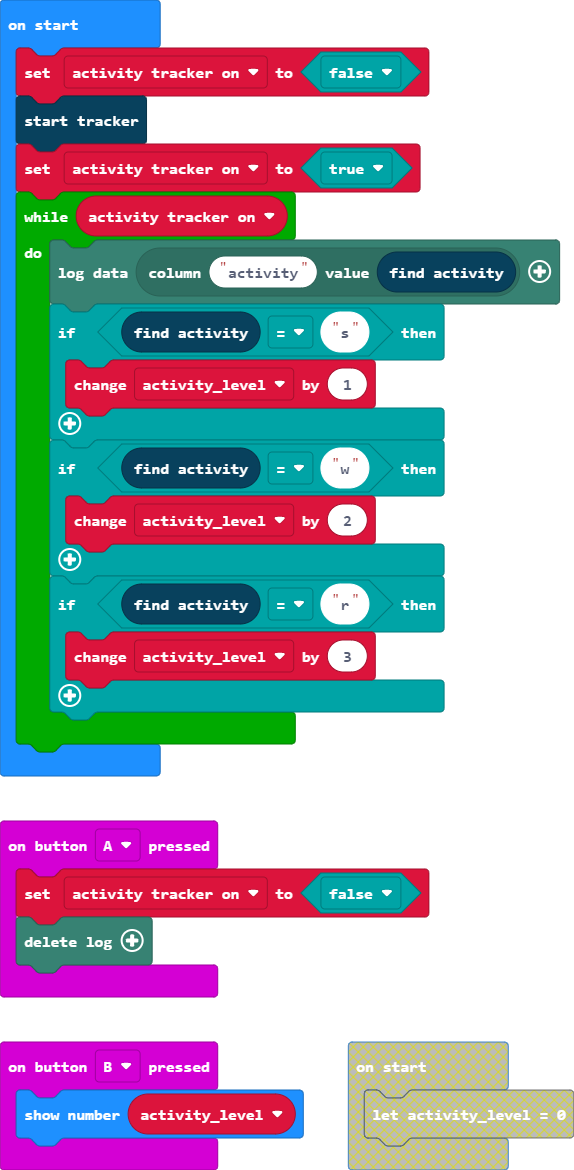
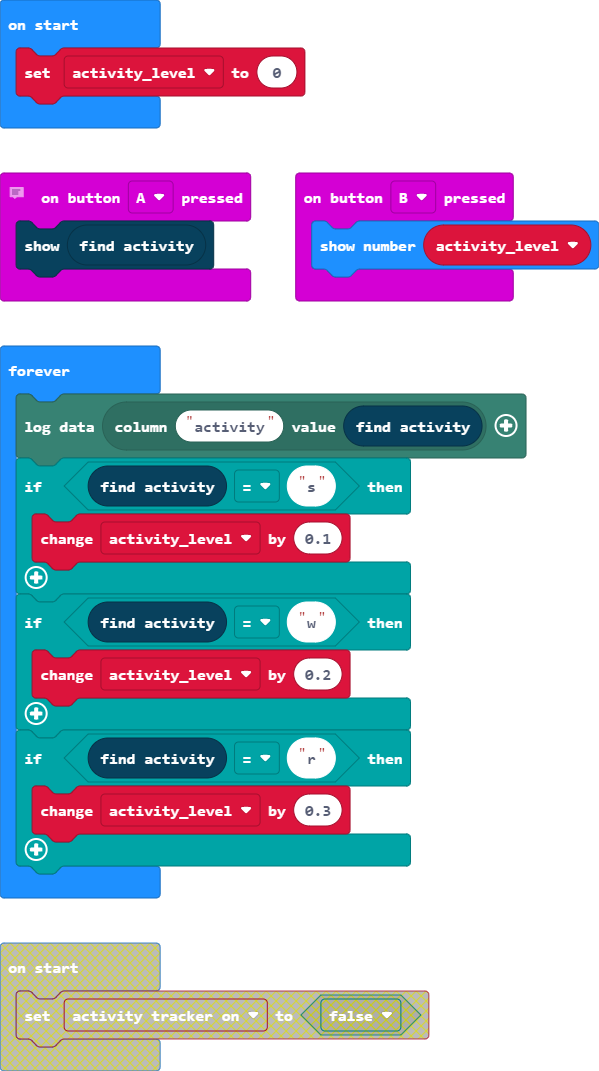
Update pxt.json, main.blocks, main.ts, custom.ts

diff --git a/custom.ts b/custom.ts
@@ -101,38 +101,65 @@ namespace activityRecognition {
         return _py.py_array_index(count, maximum(count))
     }
 
+    control.inBackground(() => {
+        for (let index = 0; index < 19; index++) {
+            rawX.push(input.acceleration(Dimension.X))
+            rawY.push(input.acceleration(Dimension.Y))
+            rawZ.push(input.acceleration(Dimension.Z))
+            basic.pause(97)}
+        while (true) {
+            rawX.push(input.acceleration(Dimension.X))
+            rawY.push(input.acceleration(Dimension.Y))
+            rawZ.push(input.acceleration(Dimension.Z))
+            basic.pause(97)
+            current_activity = activities[predict(feature_package(rawX, rawY, rawZ))]
+            //let current_activity = activities[predict(feature_package(rawX, rawY, rawZ))]
+            // return current_activity
+            //basic.showString(current_activity, 1)
+            // ^ no need to show here
+            rawX.removeAt(0)
+            rawY.removeAt(0)
+            rawZ.removeAt(0)}}
+    )
+
     // collects first 0.1sec * 19 data points from start point
     //% block
-    export function startTracker(){
+    /*export function startTracker(){
         for (let index = 0; index < 19; index++) {
             rawX.push(input.acceleration(Dimension.X))
             rawY.push(input.acceleration(Dimension.Y))
             rawZ.push(input.acceleration(Dimension.Z))
             basic.pause(97)
         }
-    }
+    }*/
 
     //  every 0.1 sec: collect acceleration data, update
     //% block
     export function findActivity(): string {
-        rawX.push(input.acceleration(Dimension.X))
+        /*rawX.push(input.acceleration(Dimension.X))
         rawY.push(input.acceleration(Dimension.Y))
         rawZ.push(input.acceleration(Dimension.Z))
         basic.pause(97)
-        let current_activity = activities[predict(feature_package(rawX, rawY, rawZ))]
+        current_activity = activities[predict(feature_package(rawX, rawY, rawZ))]
+        //let current_activity = activities[predict(feature_package(rawX, rawY, rawZ))]*/
         return current_activity
         //basic.showString(current_activity, 1)
         // ^ no need to show here
-        rawX.removeAt(0)
+        /*rawX.removeAt(0)
         rawY.removeAt(0)
-        rawZ.removeAt(0)
+        rawZ.removeAt(0)*/
         //serial.writeLine(current_activity)
     }
 
     // block that shows string for 1 millisecond: if you use the default show string block it will display for ~1 second and cause a backlog of strings to display
     //% block
-    export function show(s: string){
-        basic.showString(s, 1)
+    export function show(s: string): void{
+        basic.showString(s, 1);
+    }
+
+    //% block
+    export function getActivityDictionary(): Array<string> {
+        return ['s','w','r'];
     }
 } 
 

diff --git a/main.ts b/main.ts
@@ -1,24 +1,22 @@
+// activity_tracker_on = false
+// datalogger.deleteLog()
 input.onButtonPressed(Button.A, function () {
-    activity_tracker_on = false
-    datalogger.deleteLog()
+    activityRecognition.show(activityRecognition.findActivity())
 })
 input.onButtonPressed(Button.B, function () {
     basic.showNumber(activity_level)
 })
 let activity_level = 0
-let activity_tracker_on = false
-activity_tracker_on = false
-activityRecognition.startTracker()
-activity_tracker_on = true
-while (activity_tracker_on) {
+activity_level = 0
+basic.forever(function () {
     datalogger.log(datalogger.createCV("activity", activityRecognition.findActivity()))
     if (activityRecognition.findActivity() == "s") {
-        activity_level += 1
+        activity_level += 0.1
     }
     if (activityRecognition.findActivity() == "w") {
-        activity_level += 2
+        activity_level += 0.2
     }
     if (activityRecognition.findActivity() == "r") {
-        activity_level += 3
+        activity_level += 0.3
     }
-}
+})
